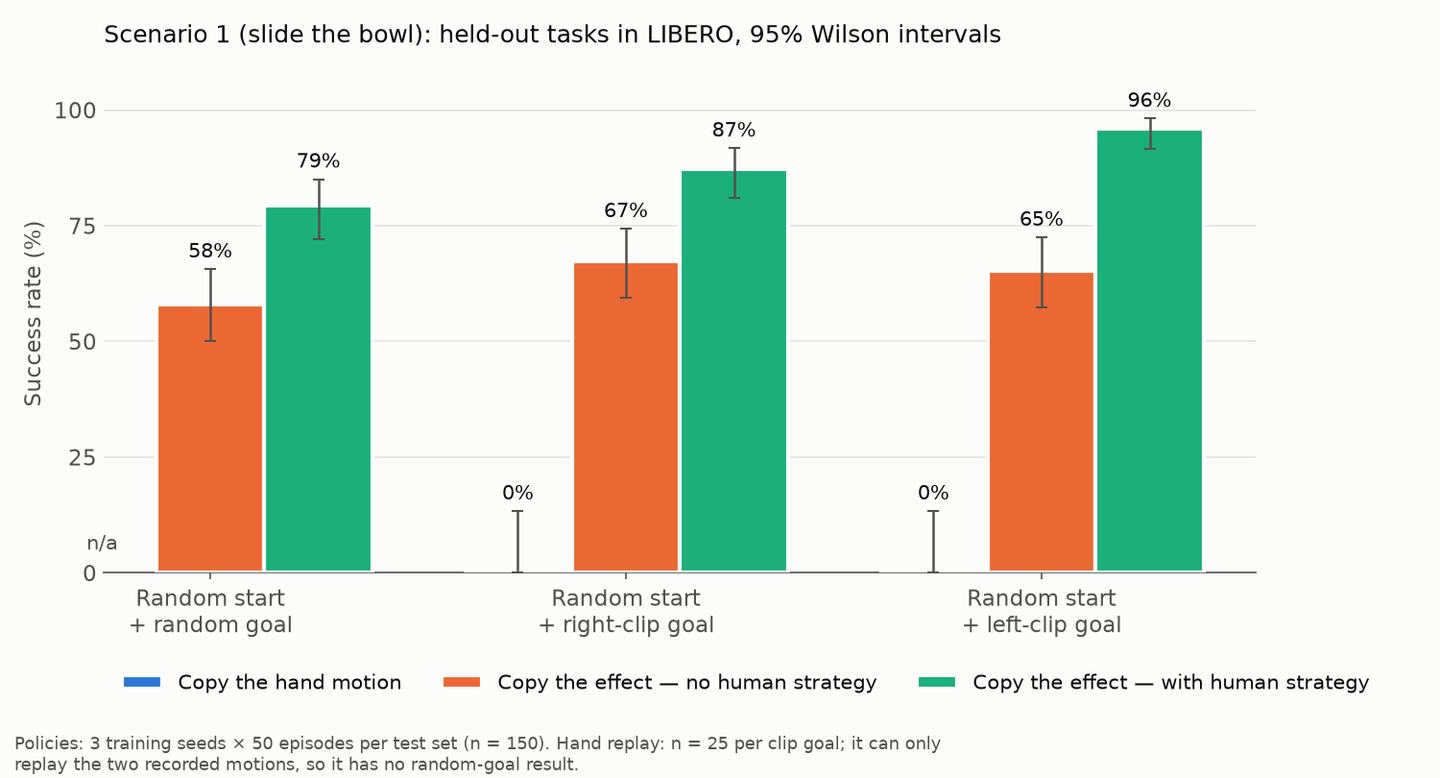
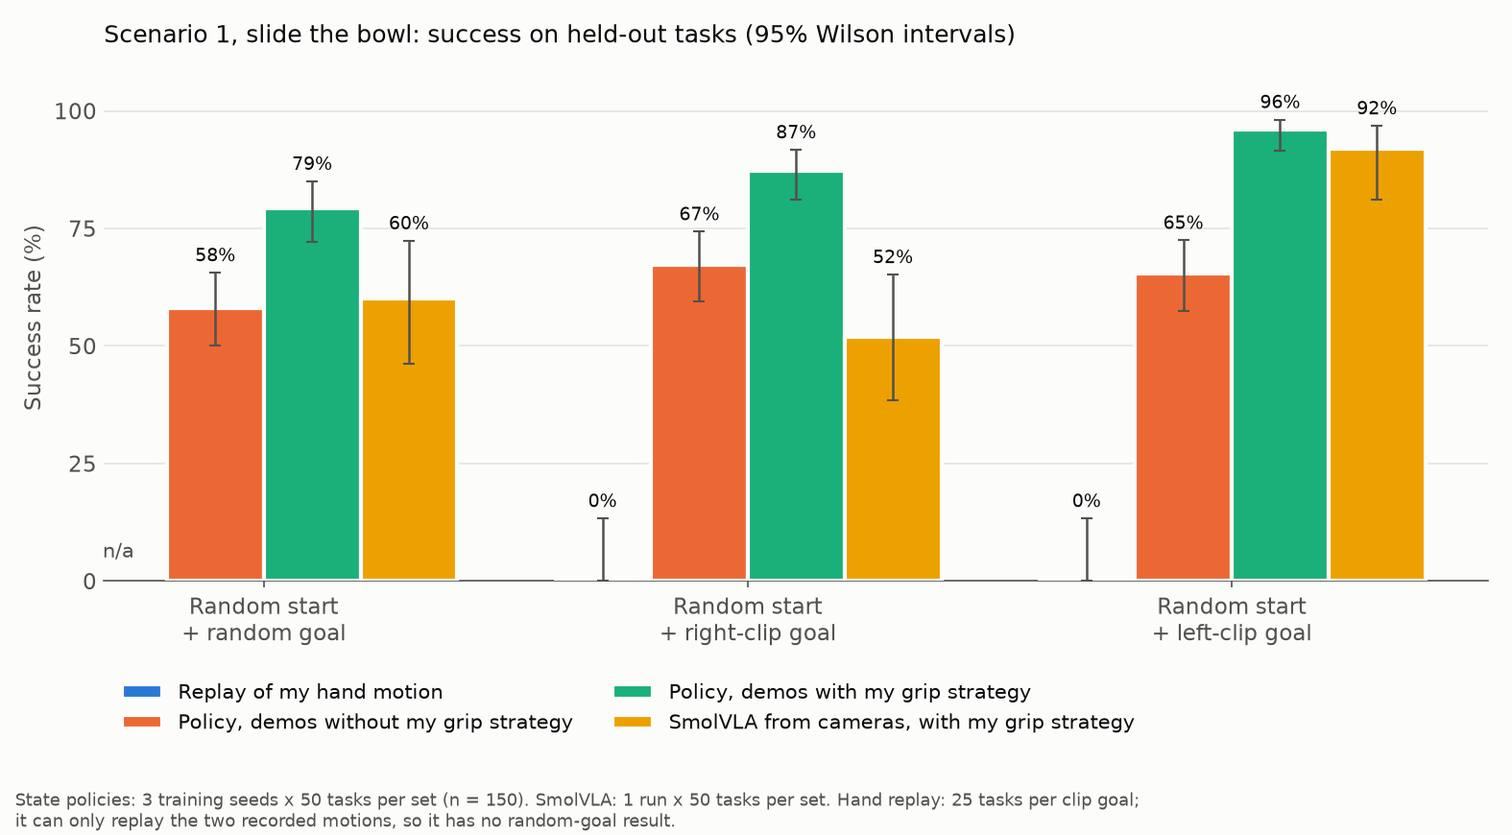
Rewrite README: plain results write-up with verified references; add SmolVLA to results figure

diff --git a/src/report/figures.py b/src/report/figures.py
@@ -1,8 +1,8 @@
 """README figures, drawn from the evaluation reports in results/eval/.
 
-Palette: categorical slots 1–3 of the dataviz reference palette (validated for CVD
-separation on the light surface); every bar carries its value label because slot 3 is
-below 3:1 contrast against the surface.
+Palette: categorical slots 1-4 of the dataviz reference palette, validated for CVD
+separation on the light surface. Every bar carries its value label because slots 3 and 4
+are below 3:1 contrast against the surface.
 
 Usage: python src/report/figures.py
 """
@@ -16,7 +16,7 @@ matplotlib.use("Agg")
 import matplotlib.pyplot as plt  # noqa: E402
 
 SURF, INK, INK2, GRID = "#fcfcfb", "#0b0b0b", "#52514e", "#e4e3dd"
-BLUE, ORANGE, AQUA = "#2a78d6", "#eb6834", "#1baf7a"
+BLUE, ORANGE, AQUA, YELLOW = "#2a78d6", "#eb6834", "#1baf7a", "#eda100"
 SETS = ["random", "human_right", "human_left"]
 SET_LABELS = ["Random start\n+ random goal", "Random start\n+ right-clip goal",
               "Random start\n+ left-clip goal"]
@@ -44,17 +44,19 @@ def pooled(prefix):
 
 def scenario1(out=Path("results/figures/scenario1_success.png")):
     hr = json.loads((EVAL / "hand_replay" / "report.json").read_text())
-    series = [("Copy the hand motion", {s: (hr[s]["success"], hr[s]["n"]) for s in SETS if s in hr}, BLUE),
-              ("Copy the effect — no human strategy", pooled("none"), ORANGE),
-              ("Copy the effect — with human strategy", pooled("strategy"), AQUA)]
+    vla = json.loads((EVAL / "smolvla_strategy" / "report.json").read_text())
+    series = [("Replay of my hand motion", {s: (hr[s]["success"], hr[s]["n"]) for s in SETS if s in hr}, BLUE),
+              ("Policy, demos without my grip strategy", pooled("none"), ORANGE),
+              ("Policy, demos with my grip strategy", pooled("strategy"), AQUA),
+              ("SmolVLA from cameras, with my grip strategy", {s: (vla[s]["success"], vla[s]["n"]) for s in SETS}, YELLOW)]
     plt.rcParams.update({"font.size": 11, "axes.labelcolor": INK2, "xtick.color": INK2,
                          "ytick.color": INK2, "text.color": INK})
-    fig, ax = plt.subplots(figsize=(10, 5.4), facecolor=SURF)
+    fig, ax = plt.subplots(figsize=(10.5, 5.8), facecolor=SURF)
     ax.set_facecolor(SURF)
-    x, w = np.arange(len(SETS)), 0.26
+    x, w = np.arange(len(SETS)), 0.2
     for i, (name, data, col) in enumerate(series):
         for j, s in enumerate(SETS):
-            xx = x[j] + (i - 1) * w
+            xx = x[j] + (i - 1.5) * w
             if s not in data:
                 ax.text(xx, 4, "n/a", ha="center", va="bottom", color=INK2, fontsize=10)
                 continue
@@ -65,7 +67,7 @@ def scenario1(out=Path("results/figures/scenario1_success.png")):
                    label=name if j == 1 else None)
             ax.errorbar(xx, p, yerr=[[p - 100 * lo], [100 * hi - p]], fmt="none", ecolor=INK2,
                         elinewidth=1.2, capsize=3, zorder=4)
-            ax.text(xx, 100 * hi + 1.5, f"{p:.0f}%", ha="center", va="bottom", fontsize=10)
+            ax.text(xx, 100 * hi + 1.5, f"{p:.0f}%", ha="center", va="bottom", fontsize=9)
     ax.set_xticks(x, SET_LABELS)
     ax.set_ylim(0, 112)
     ax.set_yticks(range(0, 101, 25))
@@ -75,13 +77,13 @@ def scenario1(out=Path("results/figures/scenario1_success.png")):
         ax.spines[side].set_visible(False)
     ax.spines["bottom"].set_color(INK2)
     ax.tick_params(axis="y", length=0)
-    ax.set_title("Scenario 1 (slide the bowl): held-out tasks in LIBERO, 95% Wilson intervals",
+    ax.set_title("Scenario 1, slide the bowl: success on held-out tasks (95% Wilson intervals)",
                  loc="left", fontsize=12)
-    ax.legend(frameon=False, loc="upper left", bbox_to_anchor=(0, -0.16), ncol=3, fontsize=10)
-    fig.text(0.01, 0.01, "Policies: 3 training seeds × 50 episodes per test set (n = 150). "
-             "Hand replay: n = 25 per clip goal; it can only\nreplay the two recorded motions, "
+    ax.legend(frameon=False, loc="upper left", bbox_to_anchor=(0, -0.16), ncol=2, fontsize=10)
+    fig.text(0.01, 0.01, "State policies: 3 training seeds x 50 tasks per set (n = 150). SmolVLA: 1 run x 50 tasks "
+             "per set. Hand replay: 25 tasks per clip goal;\nit can only replay the two recorded motions, "
              "so it has no random-goal result.", fontsize=8.5, color=INK2)
-    plt.tight_layout(rect=(0, 0.05, 1, 1))
+    plt.tight_layout(rect=(0, 0.06, 1, 1))
     out.parent.mkdir(parents=True, exist_ok=True)
     plt.savefig(out, dpi=150, facecolor=SURF)
     return out

diff --git a/README.md b/README.md
@@ -1,143 +1,138 @@
-# Copy the Bowl, Not the Hand
+# Intent retargeting: from my phone videos to a Panda in LIBERO
 
-**From two iPhone clips of my own hands to a robot policy in LIBERO, by imitating what happened to the object instead of how my hand moved.**
+I filmed my own hands moving a bowl with an iPhone, then used those clips to drive a Franka Panda in the LIBERO simulator [2]. The robot reproduces the bowl's motion as measured in the video, and it takes one detail from my technique: where on the rim I gripped.
 
-![My clip (left) and the Panda reproducing its effect in LIBERO (front and top views)](results/figures/hero_left_clip_vs_robot.gif)
+![My clip (left) and the Panda reproducing its effect, front and top views](results/figures/hero_left_clip_vs_robot.gif)
 
-The standard way to use human video is to retarget the hand's trajectory onto the robot. On my data that fails completely: the Panda's gripper is not a hand, my phone gives no hand height, and a motion that slides a bowl for me tips it over or pushes it the wrong way for the robot (**0 / 50** successes).
+## Main result
 
-This project uses my video for two other things:
+Replaying my hand motion on the robot never succeeds (0 of 50 tasks). A policy trained on demonstrations that the planner found by reproducing the bowl's motion succeeds on 87.6% of held-out tasks when the planner is seeded with my grip strategy, and on 63.6% without it (mean over 3 training seeds, 150 tasks each). SmolVLA fine-tuned on the same demonstrations, seeing only camera images, reaches 68.0%.
 
-1. **The goal**: the bowl's own trajectory (where it went, whether it was lifted), measured from the video.
-2. **The strategy**: *where* on the rim my hand gripped the bowl, relative to the direction it moved.
+![Success rates for scenario 1](results/figures/scenario1_success.png)
 
-The robot then searches for its own way to reproduce that effect, and the successful searches are distilled into a fast closed-loop policy. The human strategy is not decoration. **Policies trained on demos guided by it succeed 87.6% of the time, versus 63.6% without it** (3 training seeds, 450 held-out episodes each).
+## Data
 
-![Scenario 1 results](results/figures/scenario1_success.png)
+I recorded three clips on an iPhone 15 Plus (4K, 30 fps, no LiDAR). Downscaled copies without audio are in [`data/clips/`](data/clips).
 
----
-
-## Contents
-- [The data I collected](#the-data-i-collected)
-- [Method](#method)
-- [Results](#results)
-- [Reproducing](#reproducing)
-- [Repository layout](#repository-layout)
-- [Limitations and honest notes](#limitations-and-honest-notes)
-
-## The data I collected
-
-All recordings were made on an **iPhone 15 Plus** (no LiDAR), top-down over a kitchen table, 4K at 30 fps. Downscaled, silent copies are in [`data/clips/`](data/clips).
-
-| Clip | What happens | Camera |
+| Clip | Content | Camera |
 |---|---|---|
-| [`scenario1_right_hand.mp4`](data/clips/scenario1_right_hand.mp4) | right hand slides a black bowl 0.43 bowl-diameters away | fixed |
-| [`scenario1_left_hand.mp4`](data/clips/scenario1_left_hand.mp4) | left hand slides it back 0.41 bowl-diameters | fixed |
-| [`scenario2_bowl_onto_plate.mp4`](data/clips/scenario2_bowl_onto_plate.mp4) | left hand lifts the bowl onto a plate, then takes it off again | **hand-held** (drifts, rotates up to 6°) |
+| [`scenario1_right_hand.mp4`](data/clips/scenario1_right_hand.mp4) | right hand slides a black bowl away from me | fixed, top-down |
+| [`scenario1_left_hand.mp4`](data/clips/scenario1_left_hand.mp4) | left hand slides it back | fixed, top-down |
+| [`scenario2_bowl_onto_plate.mp4`](data/clips/scenario2_bowl_onto_plate.mp4) | left hand lifts the bowl onto a plate, then off again | hand-held |
 
-Scenario 2 is the real-world version of LIBERO's own task `libero_goal` #8, *"put the bowl on the plate"*.
+Scenario 2 is the same task as LIBERO `libero_goal` task 8, "put the bowl on the plate".
 
 ## Method
 
-```
-iPhone video ─┬─► hand landmarks (MediaPipe)          ──► baseline: replay the hand motion
-              │
-              └─► object track, no depth sensor:
-                    bowl = dark-blob circle fit, plate = bright-blob circle fit
-                    metric scale from the bowl's own size; lift from its apparent growth
-                    hand-held camera: ORB + RANSAC registration, plate as fixed reference
-                          │
-                          ▼
-              INTENT  =  goal (bowl displacement / bowl-on-plate)
-                       + strategy (grip angle on the rim, relative to motion; lift height)
-                          │
-                          ▼
-              CEM planner over manipulation primitives in LIBERO (push / pinch-drag / pick-place),
-              human strategy as the search prior, parallel MuJoCo rollouts
-                          │
-                          ▼
-              300 verified demos  ──►  policy (state MLP with action chunking, 0.7 ms per step)
-                                  ──►  vision policy (SmolVLA fine-tuned from cameras only)
-```
-
-**Why the strategy transfers.** In both scenario-1 clips my hand gripped the rim about 100° clockwise from the direction the bowl moved (−115° and −84°), on opposite sides of the bowl and with opposite hands. Expressed relative to the motion, the same strategy applies to any start position and goal. The planner starts its search there, so its demos consistently use one strategy (pinch the rim: 278/300) instead of a mix (199 pinch, 91 inside-drag, 10 push without the prior). A regression policy cannot average three different strategies into a working one, so the consistent data distils far better.
-
-Units throughout are **bowl diameters (D)**. This removes the unknown real bowl size and lets a human motion map onto LIBERO's 11.2 cm bowl.
+1. Bowl tracking. The bowl is a dark disc on a light table, so a brightness threshold and a robust circle fit find it in every frame (360/360 in scenario 1, 281/281 in scenario 2). Positions are expressed in bowl diameters (D), which removes the need for a depth sensor or a known bowl size. Lift shows up as growth in the bowl's apparent size. For the hand-held clip, camera motion is estimated from the background (ORB features, RANSAC) and the bowl is measured relative to the plate, which never moves.
+2. Grip strategy. MediaPipe Hands [7] gives fingertip positions, and contact with the rim gives a grip angle. In both scenario-1 clips I gripped the rim about 100° clockwise of the direction the bowl moved (−115° and −84°), even though I used different hands and moved in opposite directions. In scenario 2 I gripped the same near-left part of the rim (−162° and −151°) in both directions.
+3. Planning. A cross-entropy-method planner searches over short manipulation primitives (push, pinch-and-drag, drag from inside the bowl, pick-and-place) with parallel MuJoCo rollouts, scoring each by where the bowl ends up. The grip strategy from step 2 sets the initial search distribution. This is a simplified form of the demonstration-generation idea in MimicGen [1].
+4. Distillation. The planner's successful episodes become demonstrations for a 4-layer MLP that predicts 8-step action chunks from the bowl-relative state, and for SmolVLA [3] fine-tuned from camera images, the robot's own state and the instruction "slide the black bowl onto the green target". The goal is drawn into the images as a green disc.
+5. World model. An MLP ensemble predicts the bowl's next motion from the pinch point's position and motion relative to the bowl. It is trained on simulated robot interactions only, then given my real hand trajectory to see whether it predicts where my real bowl went.
 
 ## Results
 
-### Scenario 1: slide the bowl (custom LIBERO scene: table, Panda, LIBERO's black bowl)
+All success rates use the same criterion: the bowl ends within 0.1 D (about 1.1 cm) of the goal and upright. Numbers come from the JSON files in [`results/`](results).
 
-| Method | Uses from my video | Success, held-out tasks |
+### Scenario 1: slide the bowl
+
+This uses a custom LIBERO scene with a table, the Panda and LIBERO's black bowl (11.2 cm).
+
+| Method | What it uses from my video | Success |
 |---|---|---|
-| Replay my hand motion (best of 3 gripper heights) | hand trajectory + grip | **0 / 50** |
-| Intent planner, no human prior | goal | 40 / 40 (≈ 9 s of search per episode) |
-| Intent planner, human prior | goal + strategy | 40 / 40, always the human-like pinch |
-| Policy distilled from no-prior demos | goal | **63.6% ± 0.3** (3 seeds × 150) |
-| **Policy distilled from human-prior demos** | **goal + strategy** | **87.6% ± 1.4** (3 seeds × 150) |
+| Replay my pinch-point trajectory, best of 3 gripper heights | hand motion and grip timing | 0/50 |
+| Planner without my grip strategy (10 seeds × 2 clip goals) | goal | 20/20 |
+| Planner seeded with my grip strategy (10 seeds × 2 clip goals) | goal and grip | 20/20 |
+| MLP policy, demos from the planner without my strategy | goal | 63.6% (3 seeds × 150) |
+| MLP policy, demos from the seeded planner | goal and grip | 87.6% (3 seeds × 150) |
+| SmolVLA from cameras, demos from the seeded planner | goal and grip | 68.0% (150; 95% CI 60.2 to 74.9) |
 
-Per test set (pooled over seeds): random goals 79% vs 58%, right-clip goal 87% vs 67%, left-clip goal 96% vs 65%. The 95% Wilson intervals of the two pooled rates (80–91% vs 56–71%) do not overlap. A live run in the interactive viewer reproduced the gap independently (**100/113 vs 56/81**).
+The planner solves the task with or without my grip strategy. The difference is in the demonstrations it produces: seeded with my strategy, it chose the rim pinch in 278 of 300 episodes, while without it the 300 episodes mixed rim pinches (199), drags from inside the bowl (91) and pushes (10). An MLP trained to regress actions averages across those strategies and fails more often, which accounts for the gap between 63.6% and 87.6%. The gap holds on every test set and every training seed (per seed: 129, 131, 134 vs 96, 95, 95 out of 150).
 
-The success criterion is that the bowl ends within 0.1 D (about 1.1 cm) of the goal and upright. The policy runs at 0.7 ms per query, about 10,000× faster than planning.
+The MLP needs 0.7 ms per query. SmolVLA needs about 115 ms per query and returns 10 actions, about 14 ms per control step.
 
-### Scenario 2: put the bowl on the plate (LIBERO's official scene and success check)
+### Scenario 2: bowl onto the plate
 
-![Scenario 2 extraction](results/scenario2/summary.png)
+This uses LIBERO's official scene, its official initial states and its own success check. In my video the plate is 1.06 bowl diameters wide, the bowl came within 0.006 D of the plate centre, and I lifted it by an estimated 4 cm.
 
-From the hand-held clip, with camera drift removed: the bowl is lifted (it appears about 8.5% larger at the top of the carry), carried in an arc, and set down **0.006 D** from the plate centre. It sits there for 4.8 s and is then removed the same way. My hand gripped the **same near-left rim** in both directions, so here the strategy depends on where the hand comes from, not on the motion direction.
-
-| Method | Success on LIBERO's official initial states |
+| Method | Success |
 |---|---|
-| Replay my hand motion (fitted onto LIBERO's bowl and plate, lift from video, 3 heights × 10 starts) | **0 / 30** |
-| One pick-place using my grip angle (114°) and lift (≈4 cm) directly, no search | ✓ first try (init state 0) |
-| Same pick-place with a naive grip on the side facing the robot (180°) | ✗ misses the bowl |
-| Intent planner with / without my grip prior | *in progress* |
+| Replay my pinch-point trajectory, fitted onto LIBERO's bowl and plate (10 initial states × 3 heights) | 0/30 |
+| Planner seeded with my grip angle and lift height (initial states 0 to 4) | 5/5 |
+| Planner without my grip strategy (initial states 0 to 4) | 5/5 |
 
-### Vision policy (in progress)
+Both planners succeeded every time. The seeded planner gripped between 107° and 147° and lifted 3.6 to 5.8 cm; without my strategy the grips ranged from 15° to 166° and the lifts from 5.6 to 10.1 cm.
 
-SmolVLA (`lerobot/smolvla_base`, 450M parameters) is fine-tuned on the scenario-1 demos rendered as **camera images only**, with no simulator object state. The goal is drawn into the images as a green target disc. Dataset: 221 episodes in LeRobot v3 format. Training: 15k steps on an RTX 4090 Laptop GPU, about 3 h. Evaluation uses the same held-out tasks as the state policy ([`src/vision/eval_vla.py`](src/vision/eval_vla.py)).
+### Bowl world model
 
-## Reproducing
+Final position error after rolling the model forward over a whole episode, given only the pinch-point trajectory:
 
-Tested on Ubuntu 24.04, Python 3.12, NVIDIA RTX 4090 Laptop GPU (16 GB). LIBERO and headless EGL rendering need **Linux**; on Windows use WSL2.
+| | Demos only (34k steps) | Demos + 3,000 random interactions (159k steps) |
+|---|---|---|
+| Held-out robot episodes, learned model | 0.063 D | 0.068 D |
+| Held-out robot episodes, "bowl follows the closed gripper" rule | 0.165 D | 0.167 D |
+| My right-hand clip | 2.87 D | 0.48 D |
+| My left-hand clip | 0.40 D | 0.46 D |
+| My clips, "bowl does not move" | 0.43 D, 0.41 D | same |
+| Ensemble disagreement, my hand / robot | 6.6× | 4.5× |
+
+The model predicts robot interactions well. It does not predict my real bowl better than assuming the bowl stays still. Training on random interactions removed the worst failure (one ensemble member drifted 9.4 D on the right-hand clip), but a model learned from a parallel gripper does not transfer to a human hand without human training data. The ensemble members disagree 4.5 to 6.6 times more on my hand input than on robot input, so the disagreement can at least flag when the model is outside its training data.
+
+## Running it
+
+Tested on Ubuntu 24.04, Python 3.12, an RTX 4090 Laptop GPU (16 GB) and 20 CPU cores. LIBERO and headless EGL rendering need Linux.
 
 ```bash
-./scripts/setup.sh            # two venvs: .venv (LeRobot + LIBERO + SmolVLA), .venv-extract (MediaPipe)
-./scripts/run_scenario1.sh    # extraction → baseline → planner → demos → policies → eval → SmolVLA
-./scripts/run_scenario2.sh    # extraction → hand-replay baseline in libero_goal #8
-.venv-extract/bin/python src/report/figures.py   # regenerate the README figure
+./scripts/setup.sh            # .venv: LeRobot, LIBERO, SmolVLA. .venv-extract: MediaPipe, OpenCV
+./scripts/run_scenario1.sh    # extraction, baseline, planner, demos, policies, SmolVLA, evaluation
+./scripts/run_scenario2.sh    # extraction and hand-replay baseline in libero_goal task 8
 ```
 
-The pipelines expect the original clips in `data/raw/` (not committed, 4K, about 120 MB). Watch the policy live:
+The scripts expect the original clips in `data/raw/` (not committed, 117 MB). To watch the policy in an interactive MuJoCo window:
 
 ```bash
-MUJOCO_GL=egl PYTHONPATH=src/sim .venv/bin/python src/sim/live.py            # with human strategy
-MUJOCO_GL=egl PYTHONPATH=src/sim .venv/bin/python src/sim/live.py --policy runs/policy_none
+MUJOCO_GL=egl PYTHONPATH=src/sim .venv/bin/python src/sim/live.py
 ```
 
-## Repository layout
+On this machine, video extraction takes seconds, generating 300 demonstrations takes about 30 minutes on 16 CPU cores, MLP training takes about a minute, and SmolVLA fine-tuning (15,000 steps, batch 32) took about 2 h 45 min.
 
-| Path | What it does |
+## Code
+
+| Path | Purpose |
 |---|---|
-| [`src/extract/hands.py`](src/extract/hands.py) | MediaPipe hand landmarks per frame (2D + metric hand-centric 3D) |
-| [`src/extract/bowl.py`](src/extract/bowl.py) | metric bowl track from a fixed top-down camera, lift from apparent size |
-| [`src/extract/contact.py`](src/extract/contact.py) | contact segments, rim angle, push / drag / pull classification |
-| [`src/extract/scene_plate.py`](src/extract/scene_plate.py) | hand-held camera registration, bowl relative to plate |
-| [`src/sim/env.py`](src/sim/env.py) | LIBERO scene wrapper: fast physics stepping, OSC control, state |
-| [`src/sim/replay_hand.py`](src/sim/replay_hand.py), [`src/sim/replay_hand_plate.py`](src/sim/replay_hand_plate.py) | the hand-motion baselines |
-| [`src/sim/planner.py`](src/sim/planner.py), [`src/sim/run_planner.py`](src/sim/run_planner.py) | slide primitives, CEM planner, human strategy prior |
-| [`src/sim/plate_task.py`](src/sim/plate_task.py) | scenario 2 in `libero_goal` #8: pick-place primitive and planner |
-| [`src/sim/gen_demos.py`](src/sim/gen_demos.py) | planner → verified demonstrations |
-| [`src/policy/`](src/policy) | chunked-MLP policy training and closed-loop evaluation |
-| [`src/vision/`](src/vision) | goal-overlay camera dataset, SmolVLA evaluation |
-| [`src/sim/live.py`](src/sim/live.py) | interactive MuJoCo viewer |
-| [`results/`](results) | metrics (JSON), figures, evaluation videos |
+| [`src/extract/`](src/extract) | hand landmarks, bowl and plate tracking, contact and grip angle |
+| [`src/sim/env.py`](src/sim/env.py) | LIBERO wrapper: physics stepping, end-effector control, state |
+| [`src/sim/planner.py`](src/sim/planner.py), [`src/sim/plate_task.py`](src/sim/plate_task.py) | primitives and CEM planners for scenarios 1 and 2 |
+| [`src/sim/replay_hand.py`](src/sim/replay_hand.py), [`src/sim/replay_hand_plate.py`](src/sim/replay_hand_plate.py) | hand-motion replay baselines |
+| [`src/sim/gen_demos.py`](src/sim/gen_demos.py) | planner to demonstrations |
+| [`src/policy/`](src/policy) | MLP policy training and evaluation |
+| [`src/vision/`](src/vision) | camera dataset in LeRobot format, SmolVLA evaluation |
+| [`src/worldmodel/`](src/worldmodel) | random-interaction data and the bowl world model |
+| [`src/report/figures.py`](src/report/figures.py) | the results figure |
 
-## Limitations and honest notes
+## Limitations
 
-- **Few clips.** Scenario 1 is two demonstrations and scenario 2 is one. The strategy prior is estimated from two grip angles, which is why it carries a ±15° spread.
-- **The state policy reads ground-truth object positions** from the simulator. The SmolVLA run exists to remove that.
-- **The planner doesn't need the human prior to succeed** in scenario 1. Its value shows up in which strategy the planner picks and in how well that data distils into a policy, not in planner success.
-- **Fragility.** The same task can succeed or fail after tiny physics differences, so success rates are reported only over many episodes and seeds.
-- **Lift heights are approximate.** They come from apparent size on a single camera, and in scenario 2 slow camera zoom also changes the apparent size by about 4%.
-- **Physics.** In scenario 1 the bowl mass was raised from LIBERO's 6 g to a realistic 250 g. Scenario 2 keeps LIBERO's default physics so its success check is the benchmark's own.
+- There are only three clips, and the scenario-1 grip strategy comes from two grip angles.
+- The MLP policy reads the bowl position from the simulator. SmolVLA does not, and scores lower (68.0% vs 87.6%).
+- SmolVLA was trained and evaluated once, so its result has no seed spread.
+- Outcomes are sensitive to small physics differences: the same task can succeed or fail after a tiny change in the initial state. Rates are only reported over many tasks.
+- Lift heights come from apparent size in a single camera. In scenario 2, slow changes in camera distance also change the apparent size by a few percent.
+- In scenario 1 I raised the bowl's mass from LIBERO's 6 g to 250 g. Scenario 2 keeps LIBERO's default physics so that its success check is the benchmark's own.
+
+## Related work
+
+ATM [4], Track2Act [5] and Im2Flow2Act [6] also learn from object or point motion in human video instead of hand poses. They predict tracks or flow with models trained on large video datasets. This project measures a single bowl directly from three clips and uses the human contribution as a goal and a search prior. MimicGen [1] generates many robot demonstrations from a few human ones by replaying object-relative segments; the planner here does something similar with a search step instead of segment replay.
+
+## AI assistance
+
+I used an AI coding assistant (Claude) to write and debug code and to draft this README. I recorded the data and directed the experiments, and every number above is produced by the code in this repository.
+
+## References
+
+1. Mandlekar, A., Nasiriany, S., Wen, B., Akinola, I., Narang, Y., Fan, L., Zhu, Y., & Fox, D. (2023). MimicGen: A data generation system for scalable robot learning using human demonstrations. *CoRL 2023*. [arXiv:2310.17596](https://arxiv.org/abs/2310.17596)
+2. Liu, B., Zhu, Y., Gao, C., Feng, Y., Liu, Q., Zhu, Y., & Stone, P. (2023). LIBERO: Benchmarking knowledge transfer for lifelong robot learning. *NeurIPS 2023 Datasets and Benchmarks*. [arXiv:2306.03310](https://arxiv.org/abs/2306.03310)
+3. Shukor, M., et al. (2025). SmolVLA: A vision-language-action model for affordable and efficient robotics. [arXiv:2506.01844](https://arxiv.org/abs/2506.01844)
+4. Wen, C., Lin, X., So, J., Chen, K., Dou, Q., Gao, Y., & Abbeel, P. (2024). Any-point trajectory modeling for policy learning. *RSS 2024*. [arXiv:2401.00025](https://arxiv.org/abs/2401.00025)
+5. Bharadhwaj, H., et al. (2024). Track2Act: Predicting point tracks from internet videos enables generalizable robot manipulation. *ECCV 2024*. [arXiv:2405.01527](https://arxiv.org/abs/2405.01527)
+6. Xu, M., et al. (2024). Flow as the cross-domain manipulation interface (Im2Flow2Act). *CoRL 2024*. [arXiv:2407.15208](https://arxiv.org/abs/2407.15208)
+7. Zhang, F., et al. (2020). MediaPipe Hands: On-device real-time hand tracking. *CVPR Workshop on Computer Vision for AR/VR*. [arXiv:2006.10214](https://arxiv.org/abs/2006.10214)
